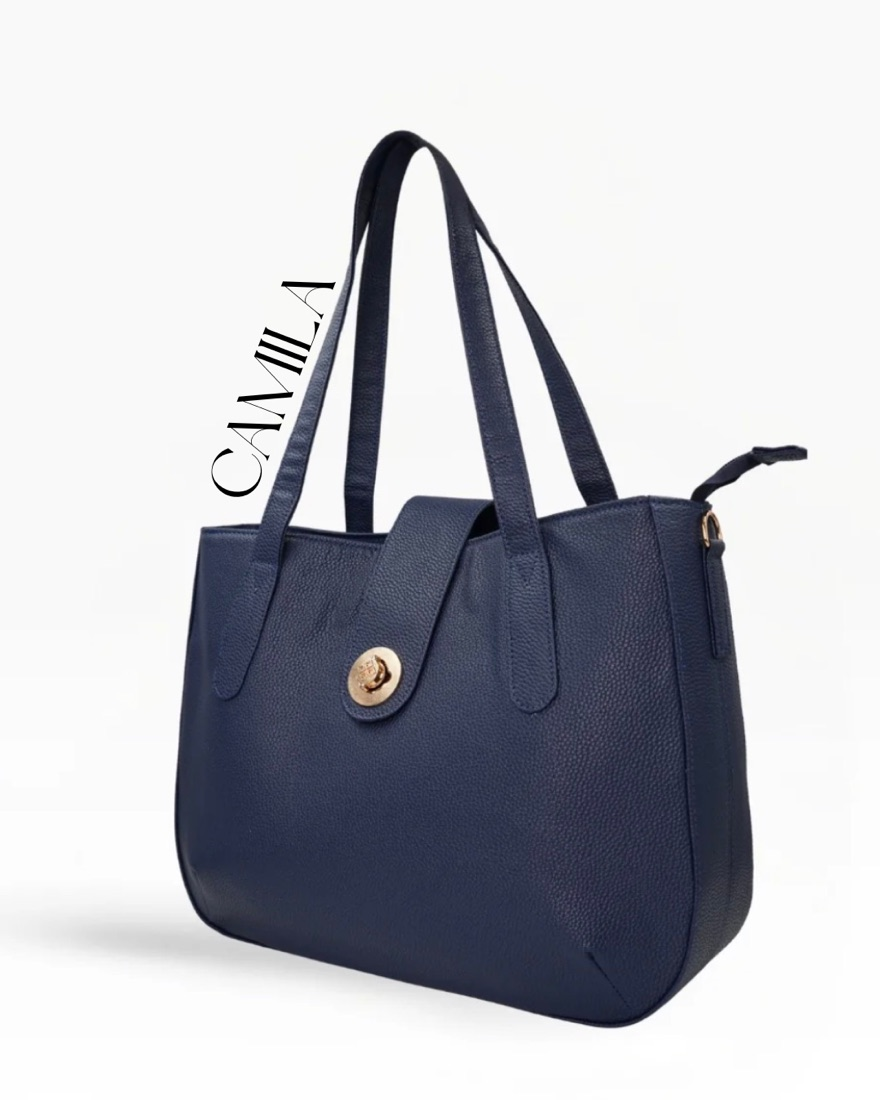
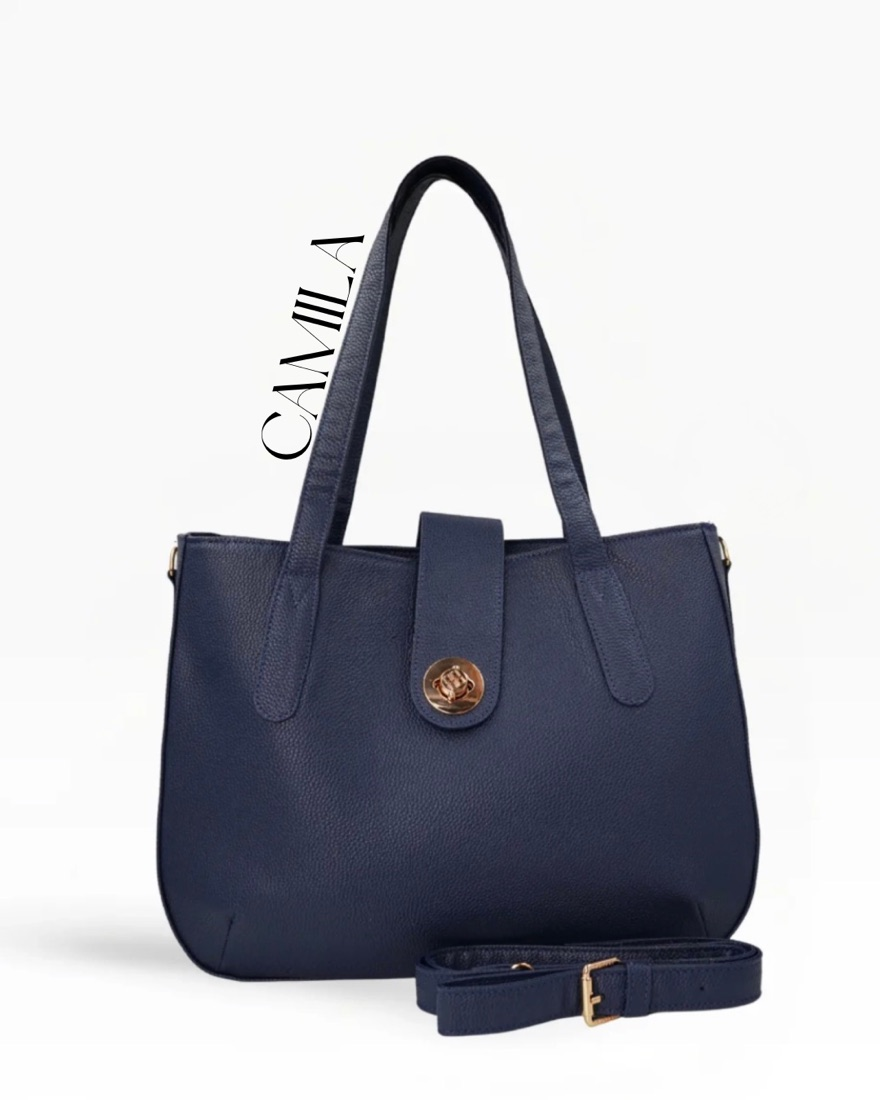
feat: catálogo interactivo por color y más correcciones de foto frontal
- Corrige el orden de fotos en Cala (Negro y camel), Zoe (Coñac),
  Camila (Azul) y Ritmo (Negro): la foto frontal pasa a la posición 1.
- Las tarjetas del catálogo/portada/relacionados ya no cambian de foto
  al pasar el mouse (se quita el zoom y el swap a una foto alterna).
  En su lugar, cada punto de color es ahora un botón: al pasar el
  mouse muestra el nombre del color como tooltip nativo, y al hacer
  clic cambia la foto de la tarjeta a ese color sin salir del
  catálogo ni navegar a la ficha. El punto activo queda marcado con
  un anillo.
- Reestructura la tarjeta: el <a> ahora solo envuelve foto + nombre +
  precio; los puntos de color quedan fuera para poder ser clicables
  de forma independiente (un botón no puede ir anidado dentro de un
  enlace).
- Aclara en el comentario de Zoe que ni 'Coñac' ni 'Negro' son colores
  oficiales confirmados (los oficiales son Miel, Azul oscuro, Rojo y
  Beige); 'Coñac' se parece a 'Miel' pero no se verificó que sea el
  mismo tono.

Changed region(s): [[0.1534, 0.0927, 0.9205, 0.9582], [0.4602, 0.7109, 0.4909, 0.7418]]

diff --git a/js/tarjeta.js b/js/tarjeta.js
@@ -21,75 +21,66 @@
   }
 
   /* Puntos de color bajo el nombre: igual que en la ficha, un color con
-     "hex2" se pinta mitad y mitad. */
+     "hex2" se pinta mitad y mitad. Van FUERA del <a> de la tarjeta (ver
+     tarjeta()) para poder hacer clic en un punto sin navegar a la ficha;
+     el `title` nativo hace de tooltip con el nombre del color. */
   function marcaColores(producto) {
     const puntos = producto.colores
-      .map((c) => {
+      .map((c, i) => {
         const fondo = c.hex2
           ? `linear-gradient(135deg, ${c.hex} 50%, ${c.hex2} 50%)`
           : c.hex;
-        return `<span class="tarjeta__color-punto" style="background: ${fondo}" title="${c.nombre}"></span>`;
+        return html`
+          <button
+            class="tarjeta__color-punto"
+            type="button"
+            style="background: ${fondo}"
+            title="${c.nombre}"
+            aria-label="Ver en ${c.nombre}"
+            aria-pressed="${String(i === 0)}"
+            data-foto="${rutaFoto(producto, c.nombre, 1)}"
+            data-alt="${producto.nombre} en ${c.nombre}"
+          ></button>
+        `;
       })
       .join("");
 
-    const nombres = producto.colores.map((c) => c.nombre).join(", ");
-
-    return html`
-      <div class="tarjeta__colores" aria-label="Colores disponibles: ${nombres}">
-        ${raw(puntos)}
-      </div>
-    `;
+    return html`<div class="tarjeta__colores">${raw(puntos)}</div>`;
   }
 
   /* `prioridad` marca las primeras tarjetas visibles: sin lazy y con
      fetchpriority alto, para que la LCP no espere. El resto va perezoso. */
   function tarjeta(producto, { prioridad = false } = {}) {
     const primerColor = producto.colores[0];
-    const tieneAlterna = primerColor.fotos > 1;
     const cargaPrincipal = prioridad
       ? 'loading="eager" fetchpriority="high"'
       : 'loading="lazy"';
 
     return html`
-      <a
-        class="tarjeta"
-        href="${rutaProducto(producto)}"
-        data-categoria="${producto.categoria}"
-      >
-        <div class="tarjeta__marco">
-          ${raw(insignia(producto))}
-          <img
-            class="tarjeta__foto"
-            src="${rutaFoto(producto, primerColor.nombre, 1)}"
-            alt="${producto.nombre} en ${primerColor.nombre}"
-            width="480"
-            height="600"
-            ${raw(cargaPrincipal)}
-            decoding="async"
-          />
-          ${raw(
-            tieneAlterna
-              ? html`<img
-                  class="tarjeta__foto tarjeta__foto--alterna"
-                  src="${rutaFoto(producto, primerColor.nombre, 2)}"
-                  alt=""
-                  width="480"
-                  height="600"
-                  loading="lazy"
-                  decoding="async"
-                />`
-              : "",
-          )}
-        </div>
-        <div class="tarjeta__cuerpo">
-          <h3 class="tarjeta__nombre">${producto.nombre}</h3>
-          <span class="tarjeta__precio precio"
-            >${formatearPrecio(producto.precio)}</span
-          >
-        </div>
+      <div class="tarjeta">
+        <a class="tarjeta__enlace" href="${rutaProducto(producto)}">
+          <div class="tarjeta__marco">
+            ${raw(insignia(producto))}
+            <img
+              class="tarjeta__foto"
+              src="${rutaFoto(producto, primerColor.nombre, 1)}"
+              alt="${producto.nombre} en ${primerColor.nombre}"
+              width="480"
+              height="600"
+              ${raw(cargaPrincipal)}
+              decoding="async"
+            />
+          </div>
+          <div class="tarjeta__cuerpo">
+            <h3 class="tarjeta__nombre">${producto.nombre}</h3>
+            <span class="tarjeta__precio precio"
+              >${formatearPrecio(producto.precio)}</span
+            >
+          </div>
+        </a>
         ${producto.colores.length > 1 ? raw(marcaColores(producto)) : ""}
         <p class="tarjeta__meta">${producto.categoria}</p>
-      </a>
+      </div>
     `;
   }
 
@@ -98,6 +89,26 @@
     productos
       .map((p, i) => tarjeta(p, { prioridad: i < prioridadHasta }))
       .join("");
+
+  /* Un solo listener delegado para toda la página: funciona sin importar
+     cuántas veces se repinte una rejilla (catálogo, portada, relacionados). */
+  document.addEventListener("click", (evento) => {
+    const punto = evento.target.closest(".tarjeta__color-punto");
+    if (!punto) return;
+
+    evento.preventDefault();
+
+    const tarjetaEl = punto.closest(".tarjeta");
+    const foto = tarjetaEl?.querySelector(".tarjeta__foto");
+    if (!foto) return;
+
+    foto.src = punto.dataset.foto;
+    foto.alt = punto.dataset.alt;
+
+    tarjetaEl.querySelectorAll(".tarjeta__color-punto").forEach((p) => {
+      p.setAttribute("aria-pressed", String(p === punto));
+    });
+  });
 
   window.OA.tarjeta = { tarjeta, rejilla };
 })();

diff --git a/css/componentes.css b/css/componentes.css
@@ -293,7 +293,16 @@
   position: relative;
   display: flex;
   flex-direction: column;
+}
+
+/* El enlace cubre foto + nombre + precio. Los puntos de color quedan
+   fuera (ver tarjeta__colores) para poder hacer clic en uno sin navegar
+   a la ficha. */
+.tarjeta__enlace {
+  display: flex;
+  flex-direction: column;
   text-decoration: none;
+  color: inherit;
 }
 
 .tarjeta__marco {
@@ -304,29 +313,12 @@
   aspect-ratio: 4 / 5;
 }
 
+/* Foto fija: al pasar el mouse no cambia ni hace zoom. El punto de color
+   es quien decide qué foto se ve (ver el listener en tarjeta.js). */
 .tarjeta__foto {
   width: 100%;
   height: 100%;
   object-fit: cover;
-  transition: transform var(--dur-slow) var(--ease-out-expo);
-}
-
-/* Segunda foto revelada al pasar el cursor: se precarga con la tarjeta. */
-.tarjeta__foto--alterna {
-  position: absolute;
-  inset: 0;
-  opacity: 0;
-  transition: opacity var(--dur-normal) var(--ease-out-soft);
-}
-
-.tarjeta:hover .tarjeta__foto,
-.tarjeta:focus-visible .tarjeta__foto {
-  transform: scale(1.045);
-}
-
-.tarjeta:hover .tarjeta__foto--alterna,
-.tarjeta:focus-visible .tarjeta__foto--alterna {
-  opacity: 1;
 }
 
 .tarjeta__cuerpo {
@@ -365,9 +357,23 @@
 .tarjeta__color-punto {
   width: 0.85rem;
   height: 0.85rem;
+  border: none;
   border-radius: 50%;
+  padding: 0;
+  cursor: pointer;
   box-shadow: inset 0 0 0 1px rgb(0 0 0 / 15%);
   flex-shrink: 0;
+  transition: box-shadow var(--dur-fast) linear;
+}
+
+.tarjeta__color-punto[aria-pressed="true"] {
+  box-shadow: inset 0 0 0 1px rgb(0 0 0 / 15%), 0 0 0 2px var(--c-bone),
+    0 0 0 3.5px var(--c-ink);
+}
+
+.tarjeta__color-punto:focus-visible {
+  outline: 2px solid var(--c-ink);
+  outline-offset: 2px;
 }
 
 /* Con dos tarjetas por fila no cabe "Bandolera Mía" y el precio en la misma

diff --git a/js/productos.js b/js/productos.js
@@ -101,9 +101,11 @@ window.OA.productos = Object.freeze([
     ],
     cuidados:
       "Limpiar con crema limpiadora para bolsos o con un paño suave ligeramente húmedo. No usar detergentes abrasivos ni cepillos. No lavar en máquina. No sumergir en agua. Evitar peso excesivo o presión prolongada para conservar su forma. Guardar en lugar seco.",
-    // "Negro" no aparece como color oficial de Zoe en levursse.com (los
-    // oficiales son Miel, Azul oscuro, Rojo y Beige): revisar si es una
-    // variante propia o si el nombre de color debería ajustarse.
+    // Ni "Coñac" ni "Negro" aparecen tal cual entre los colores oficiales
+    // de Zoe en levursse.com (son Miel, Azul oscuro, Rojo y Beige). "Coñac"
+    // es visualmente parecido a "Miel", pero no confirmé que sea el mismo
+    // tono exacto: revisar la foto contra la página oficial antes de
+    // renombrarlo.
     referenciaOficial: "https://levursse.com/products/cartera-zoe-azul-oscuro",
   },
   {
